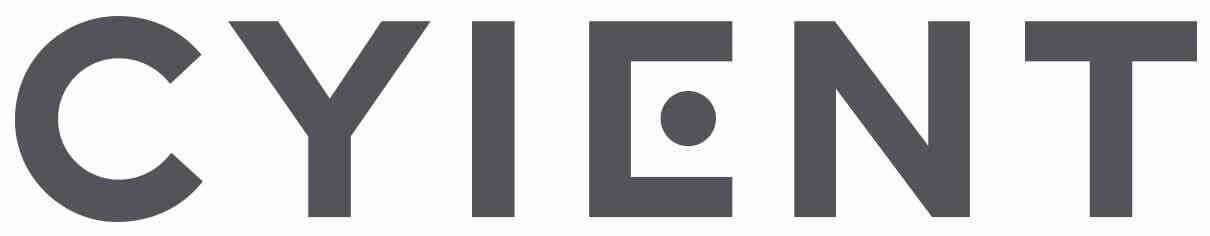
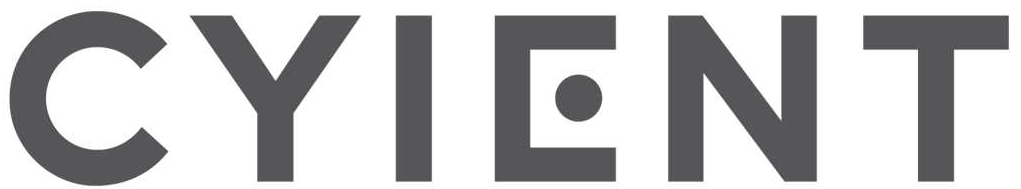
Sponsors Page Edits

diff --git a/templates/webapp/sponsors.html b/templates/webapp/sponsors.html
@@ -1,16 +1,26 @@
 
     {% load static %}
     {% include "base.html" %}
-    <title>Sponsors | ELAN & ηvision 2018</title>
+    <title>Sponsors | ELAN & ηvision 2k18 | IIT Hyderabad</title>
     <!-- FAVICONS -->
   	<link rel="shortcut icon" href="{% static 'img/favicon.png' %}">
   	<link rel="apple-touch-icon" sizes="180x180" href="{% static 'img/favicon.png' %}">
+    <meta name="description" content="Sponsors Elan & nVision 2k18, IIT Hyderabad">
+    <meta property="og:locale" content="en_US">
+    <meta property="og:type" content="website">
+    <meta property="og:title" content="Sponsors Elan & nVision 2k18, IIT Hyderabad">
+    <meta property="og:description" content="Sponsors Elan & nVision 2k18, IIT Hyderabad">
+    <meta property="og:site_name" content="Elan & nVision 2k18">
     <!-- Bootstrap -->
     <link href="{% static 'css/bootstrap.min.css' %}" rel="stylesheet">
     <link href="{% static 'css/sponsors.css' %}" rel="stylesheet">
     <link rel="stylesheet" href="{% static 'css/home/nav.css' %}" type="text/css" />
-    <link href="https://fonts.googleapis.com/css?family=Open+Sans" rel="stylesheet">
+    <link href="https://fonts.googleapis.com/css?family=Montserrat" rel="stylesheet">
     <style type="text/css">
+      h2{
+        font-size:1.8em;
+        font-family: 'Montserrat', sans-serif;
+      }
       .logo-div {
           width: 100%;
           text-align: center;
@@ -29,30 +39,11 @@
       width: 100%;
     }
 }
-
+    *{
+      transition: all 0.3s ease;
+    }
     </style>
-  <!--Body section-->
-    <!--Commenting out the navbar
-    <nav class="navbar navbar-expand-lg navbar-dark bg-dark">
-      <a class="navbar-brand" href="../Home_main/index.html" class="navbar-brand"><img src = " ./icons/newlogo.png' %}" class="img-responsive" style="width:49.9px; height:41.1px"></a>
-      <button class="navbar-toggler" type="button" data-toggle="collapse" data-target="#navbarSupportedContent" aria-controls="navbarSupportedContent" aria-expanded="false" aria-label="Toggle navigation">
-        <span class="navbar-toggler-icon"></span>
-      </button>
 
-      <div class="collapse navbar-collapse" id="navbarSupportedContent" style="font-size: 18px">
-        <ul class="nav navbar-nav ml-auto navstyle">
-          <li class="nav-item">
-            <a class="nav-link" href="../Home_main/index.html">Home </a>
-          </li>
-          <li class="nav-item active">
-            <a class="nav-link" href="#">Sponsors 2018 <span class="sr-only">(current)</span></a>
-          </li>
-          <li class="nav-item">
-            <a class="nav-link" href="spons2017.html">Sponsors 2017</a>
-          </li>
-        </ul>
-      </div>
-    </nav> -->
     <!-- Nav -->
     <nav class="cbp-spmenu cbp-spmenu-vertical cbp-spmenu-left" id="cbp-spmenu-s1">
     <h3 style="margin: 0;"><img src="{% static 'img/home/p0_1_new.png' %}" alt="Elan & &eta;Vision 2018"></h3>
@@ -88,8 +79,9 @@
         <!-- nav ends -->
 
     <div class="logo-div" style="margin-top:2%;">
-      <a href="/"><img src="/static/img/logo.png" class="logo"></a>
-    </div>
+      <a href="/"><img src="/static/img/new_logo_big.png" class="logo"></a>
+    </div><br>
+    <br>
     <div class= "container" style="text-align: center;margin-top:2%;">
       <h2 class="title-font">Title Sponsor</h2>
 
@@ -98,76 +90,76 @@
         <a class="thumbnail" style="width: 100%" target="_blank" href="http://www.cyient.com/">
           <img class="img-responsive" src="{% static 'img/beta/sponsors/cyient.jpg' %}">
         </a><br>
-        <h3>CYIENT</h3>
-      </div>
+      <br>  <h3>CYIENT</h3>
+      </div><br>
         <div class="row">
 
             <div class="col-sm-4" align="center">
-                <h2>Major Sponsor</h2>
+                <h2>Major Sponsor</h2><br>
                 <a href="http://www.whataftercollege.com/"><img style="width:80%" class="blueshadow img-responsive rounded img-thumbnail" src="{% static 'img/sponsors/wac.png' %}"></a>
-                <h3>What After College</h3>
+                  br<h3>What After College</h3>
             </div>
             <div class="col-sm-4" align="center">
-                <h2>Major Sponsor</h2>
+                <h2>Major Sponsor</h2><br>
                 <a href="http://www.gailonline.com"><img style="width:90%" class="blueshadow img-responsive rounded img-thumbnail" src="{% static 'img/sponsors/gail.png' %}"></a>
-                <h3>GAIL</h3>
+                  br<h3>GAIL</h3>
             </div>
             <div class="col-sm-4" align="center">
-                <h2>Major Sponsor</h2>
-                <a href="http://www.pfcindia.com/"><img style="width:70%" class="blueshadow img-responsive rounded img-thumbnail" src="{% static 'img/sponsors/pfc.jpg' %}"></a>
-                <h3>PFC</h3>
+                <h2>Major Sponsor</h2><br>
+                <a href="http://www.pfcindia.com/"><img style="width:65%" class="blueshadow img-responsive rounded img-thumbnail" src="{% static 'img/sponsors/pfc.jpg' %}"></a>
+                <br><h3>PFC</h3>
             </div>
-        </div>
+        </div><br><br>
         <div class="row">
             <div class="col-md-4 col-sm-4 col-xs-4">
-                <h2> Outreach partner</h2>
+                <h2> Outreach partner</h2><br>
                 <a href="http://www.azureskynet.com/"><img style="width:60%;" class="shadow img-responsive rounded img-thumbnail" src="{% static 'img/beta/sponsors/azure.jpg' %}"></a>
-                <h3>Azure Skynet</h3>
+                <br><h3>Azure Skynet</h3>
             </div>
             <div class="col-md-4 col-sm-4 col-xs-4">
-                <h2> Outreach partner</h2>
+                <h2> Outreach partner</h2><br><br><br>
                 <a href="https://entrench.in/"><img class="shadow img-responsive rounded img-thumbnail" src="{% static 'img/beta/sponsors/entrench.jpg' %}"></a>
-                <h3>Entrench Electronics</h3>
+                <br><h3>Entrench Electronics</h3>
             </div>
             <div class="col-md-4 col-sm-4 col-xs-4">
-                <h2> Outreach partner</h2>
+                <h2> Outreach partner</h2><br><br><br>
                 <a href="http://www.skillthon.com/"><img class="shadow img-responsive rounded img-thumbnail" src="{% static 'img/beta/sponsors/skillthon.png' %}"></a>
-                <h3>Skillthon</h3>
+              <br>  <h3>Skillthon</h3>
             </div>
-        </div>
+        </div><br><br>
         <div class="row">
             <div class="col-md-4 col-sm-4 col-xs-4">
-                <h2>Workshop partner</h2>
+                <h2>Workshop partner</h2><br>
                 <a href="https://www.techtrontechnologies.com/"><img class="whiteshadow img-responsive rounded img-thumbnail" src="{% static 'img/beta/sponsors/techtron.jpg' %}"></a>
-                <h3>Techtron Technologies</h3>
+                <br><h3>Techtron Technologies</h3>
             </div>
             <div class="col-md-4 col-sm-4 col-xs-4">
-                <h2>Online Events partner</h2>
+                <h2>Online Events partner</h2><br>
                 <a href="https://in.mathworks.com/"><img class="whiteshadow img-responsive rounded img-thumbnail" src="{% static 'img/sponsors/mathworks.jpg' %}"></a>
-                <h3>Mathworks</h3>
+              <br>  <h3>Mathworks</h3>
             </div>
             <div class="col-md-4 col-sm-4 col-xs-4">
-                <h2>Online Events partner</h2>
+                <h2>Online Events partner</h2><br>
                 <a href="https://www.hackerearth.com/"><img class="whiteshadow img-responsive rounded img-thumbnail" src="{% static 'img/sponsors/hackerearth.png' %}"></a>
-                <h3>Hackerearth</h3>
+              <br>  <h3>Hackerearth</h3>
             </div>
-        </div>
+        </div><br><br>
         <div class="row">
-            <div class="col-md-6 col-sm-4 col-xs-4 col-md-offset-4" >
-                <h2>Coding partner</h2>
-                <a href="https://www.ibm.com"><img class="whiteshadow img-responsive rounded img-thumbnail" style="max-width:80%;" src="{% static 'img/sponsors/ibm.jpg' %}"></a>
-                <h3>IBM</h3>
+            <div class="col-md-6 col-sm-4 col-xs-4 col-md-offset-5" >
+                <h2>Coding partner</h2><br>
+                <a href="https://www.ibm.com"><img class="whiteshadow img-responsive rounded img-thumbnail" style="max-width:60%;" src="{% static 'img/sponsors/ibm.jpg' %}"></a>
+                <br><h3>IBM</h3>
             </div>
             <div class="col-md-6 col-sm-4 col-xs-4 ">
-                <h2>Voice Partner</h2>
+                <h2>Voice Partner</h2><br>
                 <a href="http://www.radiomirchi.com/"><img class="whiteshadow img-responsive rounded img-thumbnail" style="max-width:50%;" src="{% static 'img/sponsors/radiomirchi.png' %}"></a>
-                <h3>radio Mirchi</h3>
+              <br>  <h3>Radio Mirchi</h3>
             </div>
             <div class="col-md-4 col-sm-4 col-xs-4" style="display:none">
-                <h4>Online Events partner</h4>
+                <h4>Online Events partner</h4><br>
                 <a href="https://www.hackerearth.com/"><img class="whiteshadow img-responsive rounded img-thumbnail" src="{% static 'img/sponsors/hackerearth.png' %}"></a>
             </div>
-        </div>
+        </div><br><br>
 
         <h1>Previous Sponsors</h1>
         <h4 class="title-font">Title Sponsor</h4>

diff --git a/templates/webapp/litfest.html b/templates/webapp/litfest.html
@@ -20,11 +20,11 @@
         <title>Litfest 2k18 | Elan & &eta;Vision 2k18 | IIT Hyderabad</title>
 
 
-        <meta name="description" content="#my_ecopledge, Social Cause Campaign by Elan & nVision 2k18, IIT Hyderabad">
+        <meta name="description" content="Litfest by Elan & nVision 2k18, IIT Hyderabad">
         <meta property="og:locale" content="en_US">
         <meta property="og:type" content="website">
-        <meta property="og:title" content="#my_ecopledge - Social Cause Campaign by Elan & nVision 2k18, IIT Hyderabad">
-        <meta property="og:description" content="#my_ecopledge - Social Cause Campaign by Elan & nVision 2k18, IIT Hyderabad">
+        <meta property="og:title" content="Literary Fest by Elan & nVision 2k18, IIT Hyderabad">
+        <meta property="og:description" content="Literary Fest by Elan & nVision 2k18, IIT Hyderabad">
         <meta property="og:site_name" content="Elan & nVision 2k18">
 
         <!-- EXTERNAL STYLESHEETS -->

diff --git a/templates/webapp/base.html b/templates/webapp/base.html
@@ -2,7 +2,6 @@
 <html>
 <head>
 	{% load static %}
-	<title>Elan&Nvision2018</title>
 	<!-- FAVICONS -->
 	<link rel="shortcut icon" href="{% static 'img/favicon.png' %}">
 	<link rel="apple-touch-icon" sizes="180x180" href="{% static 'img/favicon.png' %}">
